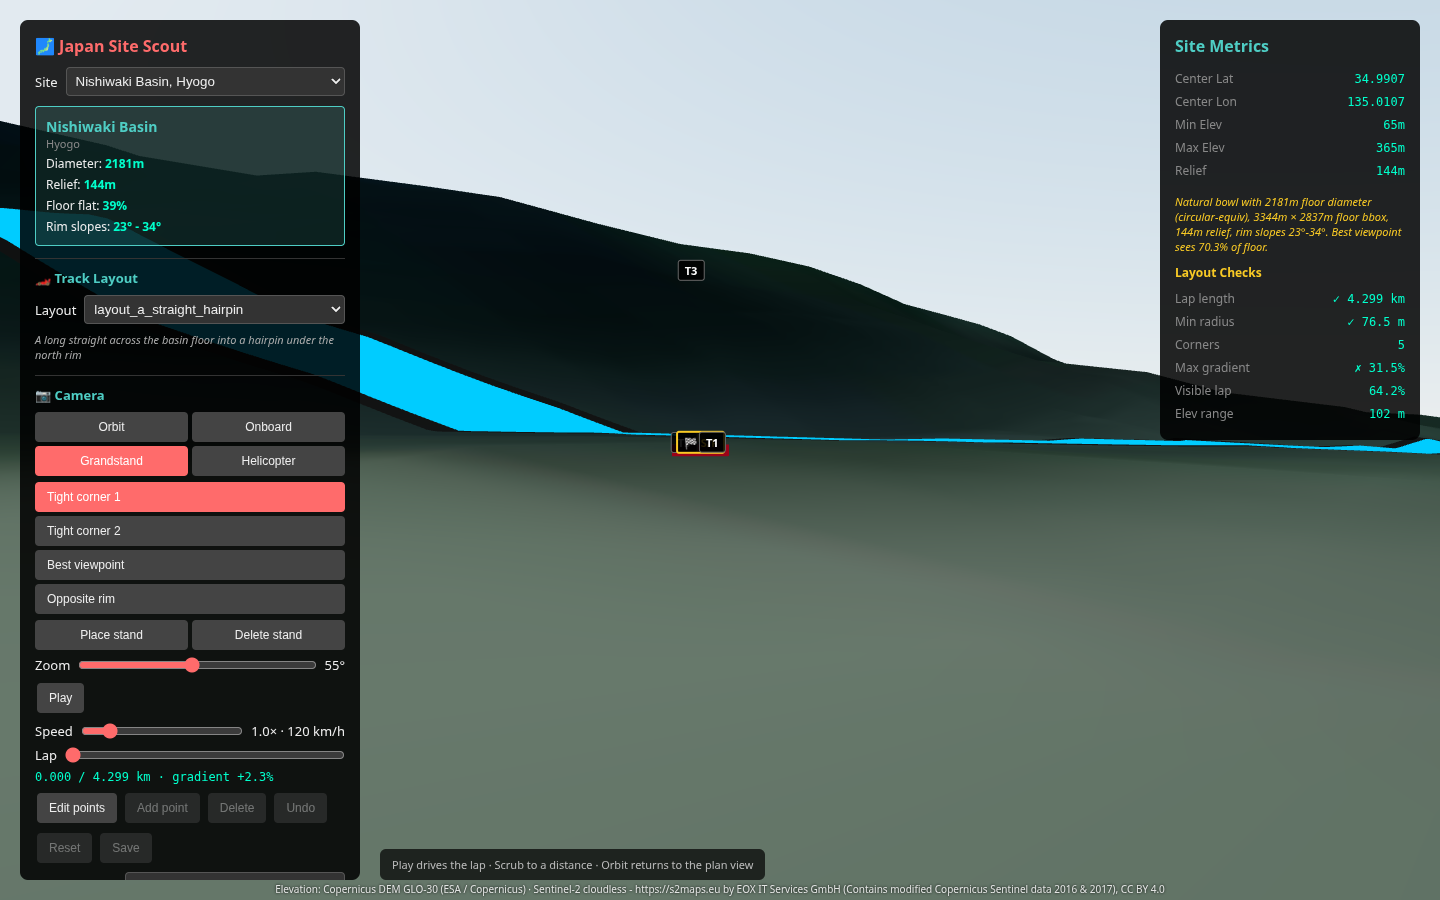
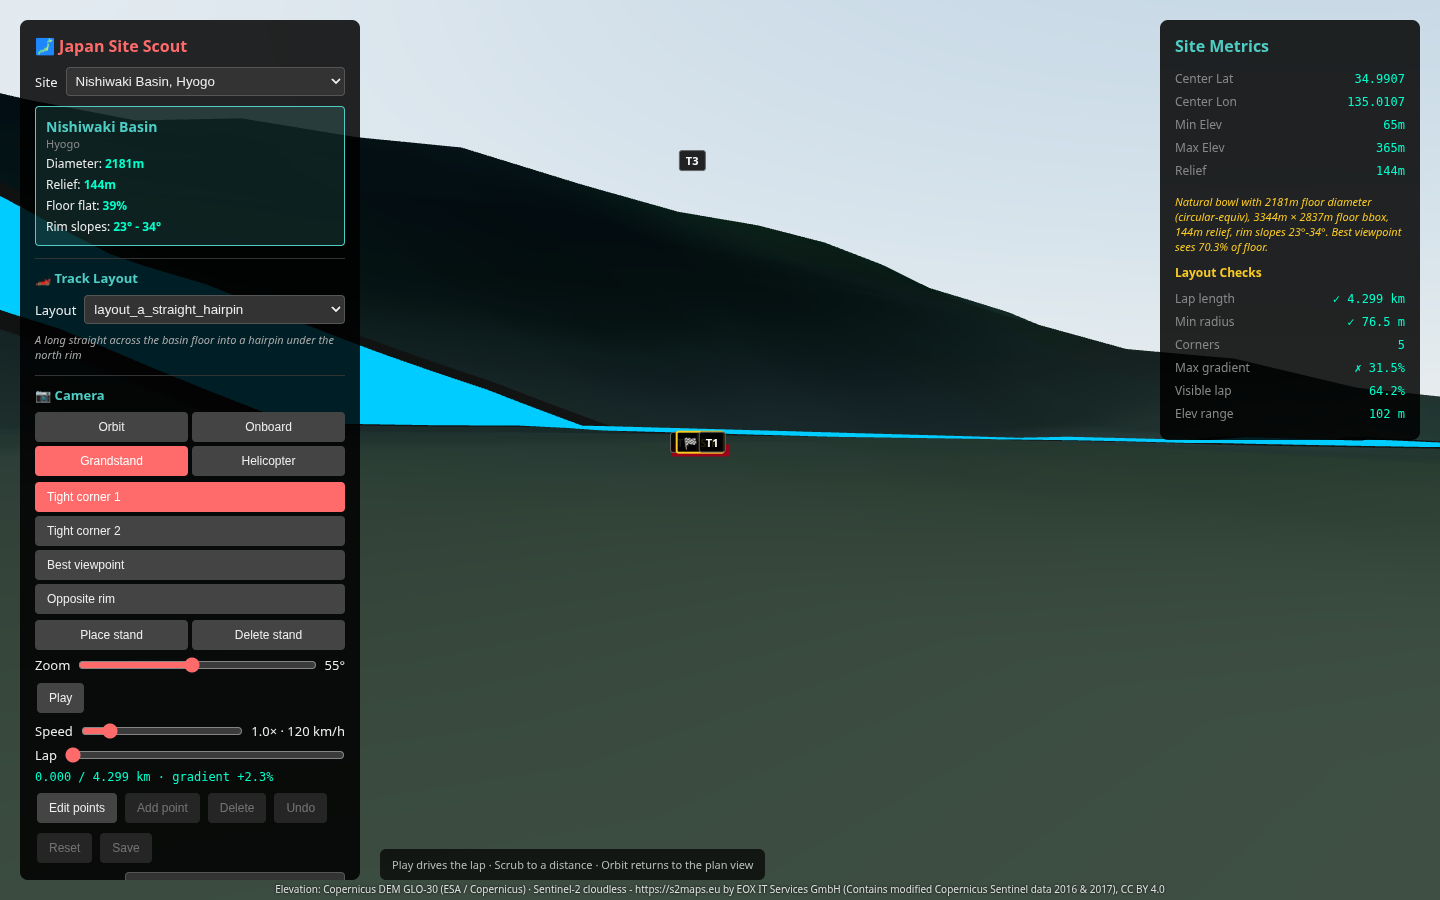
Address PR 11 review: stands [], finites, polyline clearance, car scale
Persist empty stands array, validate finite coordinates in serve.py, place
defaults using full-track outside-edge clearance (40–120 m), and cap grandstand
car marker angular size.

diff --git a/viewer/site.html b/viewer/site.html
@@ -694,8 +694,11 @@
                 selectedIndex = -1;
                 liveViewshedPct = null;
                 applyWorkingLayout();
-                const fromFile = standsFromLayout(layout);
-                customStands = fromFile || suggestDefaultStands();
+                if (Object.prototype.hasOwnProperty.call(layout, 'stands')) {
+                    customStands = standsFromLayout(layout);
+                } else {
+                    customStands = suggestDefaultStands();
+                }
                 rebuildDriveStands();
 
                 document.getElementById('layout-direction').textContent = layout.direction || '';
@@ -1589,14 +1592,12 @@
                 notes: note || currentLayout?.notes || '',
                 edited_from: currentLayoutKey,
             };
-            if (customStands.length) {
-                payload.stands = customStands.map((s, i) => {
-                    const item = { x: round2(s.x), y: round2(s.y) };
-                    if (s.name) item.name = s.name;
-                    if (Number.isFinite(s.eyeElev)) item.eye_elev_m = round2(s.eyeElev);
-                    return item;
-                });
-            }
+            payload.stands = customStands.map((s) => {
+                const item = { x: round2(s.x), y: round2(s.y) };
+                if (s.name) item.name = s.name;
+                if (Number.isFinite(s.eyeElev)) item.eye_elev_m = round2(s.eyeElev);
+                return item;
+            });
             let via = 'download';
             try {
                 const res = await fetch('/api/layouts/edits', {
@@ -1940,7 +1941,10 @@
                 carMarker.renderOrder = 12;
             } else if (cameraMode === 'grandstand' && camera) {
                 const dist = Math.max(40, camera.position.distanceTo(worldPos));
-                carMarker.scale.setScalar(THREE.MathUtils.clamp(dist / 45, 4, 22));
+                const fovRad = THREE.MathUtils.degToRad(camera.fov);
+                const maxScale = (dist * Math.tan(fovRad / 8)) / 4.4;
+                const raw = THREE.MathUtils.clamp(dist / 45, 2, 22);
+                carMarker.scale.setScalar(Math.max(1, Math.min(raw, maxScale)));
                 carMarker.material.depthTest = false;
                 carMarker.material.emissive.setHex(0x881018);
                 carMarker.renderOrder = 14;
@@ -2043,12 +2047,13 @@
         }
 
         function standsFromLayout(layout) {
-            const raw = layout?.stands;
-            if (!Array.isArray(raw) || !raw.length) return null;
+            const raw = layout.stands;
+            if (!Array.isArray(raw)) return [];
             const out = [];
             for (let i = 0; i < raw.length && i < 4; i++) {
                 const s = raw[i];
                 if (typeof s?.x !== 'number' || typeof s?.y !== 'number') continue;
+                if (!Number.isFinite(s.x) || !Number.isFinite(s.y)) continue;
                 const elev = meshElevation(s.x, s.y);
                 const name = typeof s.name === 'string' && s.name.trim()
                     ? s.name.trim().slice(0, 64) : `Stand ${out.length + 1}`;
@@ -2060,12 +2065,41 @@
                     eyeElev: Number.isFinite(s.eye_elev_m) ? s.eye_elev_m : elev + STAND_EYE_M,
                 });
             }
-            return out.length ? out : null;
+            return out;
+        }
+
+        function pointToSegmentDist(x, y, x0, y0, x1, y1) {
+            const dx = x1 - x0;
+            const dy = y1 - y0;
+            const lenSq = dx * dx + dy * dy;
+            if (lenSq < 1e-12) return Math.hypot(x - x0, y - y0);
+            let t = ((x - x0) * dx + (y - y0) * dy) / lenSq;
+            t = Math.max(0, Math.min(1, t));
+            return Math.hypot(x - (x0 + t * dx), y - (y0 + t * dy));
+        }
+
+        function nearestTrackCenterlineM(x, y) {
+            const pts = layoutPoints;
+            if (!pts || pts.length < 2) return null;
+            let best = Infinity;
+            for (let i = 0; i < pts.length; i++) {
+                const j = (i + 1) % pts.length;
+                const d = pointToSegmentDist(x, y, pts[i].x, pts[i].y, pts[j].x, pts[j].y);
+                if (d < best) best = d;
+            }
+            return best;
+        }
+
+        function trackEdgeClearanceM(x, y) {
+            const center = nearestTrackCenterlineM(x, y);
+            if (center == null) return null;
+            const halfW = (currentLayout?.track_width_m || TRACK_WIDTH) / 2;
+            return center - halfW;
         }
 
         function suggestDefaultStands() {
             const corners = liveMetrics?.corners;
-            if (!corners?.length || !workingPoints?.length) return [];
+            if (!corners?.length || !workingPoints?.length || !layoutPoints?.length) return [];
             const width = currentLayout?.track_width_m || TRACK_WIDTH;
             const halfW = width / 2;
             const centroid = workingPoints.reduce((a, p) => ({ x: a.x + p.x, y: a.y + p.y }), { x: 0, y: 0 });
@@ -2074,15 +2108,12 @@
             const sorted = [...corners].sort((a, b) => a.radius_m - b.radius_m);
             const picks = [];
             const used = [];
-            for (const c of sorted) {
-                if (picks.length >= 2) break;
-                if (used.some(u => Math.abs(u - c.position_m) < 80)) continue;
-                used.push(c.position_m);
+            const tryCorner = (c, label) => {
                 const pt = sampleCentreline(c.position_m);
-                if (!pt) continue;
+                if (!pt) return null;
                 const p0 = sampleCentreline(c.position_m - 6);
                 const p1 = sampleCentreline(c.position_m + 6);
-                if (!p0 || !p1) continue;
+                if (!p0 || !p1) return null;
                 let tx = p1.x - p0.x;
                 let ty = p1.y - p0.y;
                 const tlen = Math.hypot(tx, ty) || 1;
@@ -2096,18 +2127,63 @@
                     nx = -nx;
                     ny = -ny;
                 }
-                const offsetM = halfW + 70;
-                const sx = pt.x + nx * offsetM;
-                const sy = pt.y + ny * offsetM;
-                const elev = meshElevation(sx, sy);
-                if (!Number.isFinite(elev)) continue;
-                picks.push({
-                    id: `suggest-${picks.length}`,
-                    name: picks.length === 0 ? 'Tight corner 1' : 'Tight corner 2',
-                    x: sx,
-                    y: sy,
-                    eyeElev: elev + STAND_EYE_M,
-                });
+                for (let edgeDist = 40; edgeDist <= 120; edgeDist += 2) {
+                    const offsetM = halfW + edgeDist;
+                    const sx = pt.x + nx * offsetM;
+                    const sy = pt.y + ny * offsetM;
+                    const clear = trackEdgeClearanceM(sx, sy);
+                    if (clear == null || clear < 40 - 0.5) continue;
+                    if (clear > 120 + 0.5) break;
+                    const elev = meshElevation(sx, sy);
+                    if (!Number.isFinite(elev)) continue;
+                    return {
+                        id: `suggest-${picks.length}`,
+                        name: label,
+                        x: sx,
+                        y: sy,
+                        eyeElev: elev + STAND_EYE_M,
+                    };
+                }
+                for (let edgeDist = 122; edgeDist <= 200; edgeDist += 2) {
+                    const offsetM = halfW + edgeDist;
+                    const sx = pt.x + nx * offsetM;
+                    const sy = pt.y + ny * offsetM;
+                    const clear = trackEdgeClearanceM(sx, sy);
+                    if (clear == null) continue;
+                    if (clear >= 40 && clear <= 120) {
+                        const elev = meshElevation(sx, sy);
+                        if (!Number.isFinite(elev)) continue;
+                        return {
+                            id: `suggest-${picks.length}`,
+                            name: label,
+                            x: sx,
+                            y: sy,
+                            eyeElev: elev + STAND_EYE_M,
+                        };
+                    }
+                    if (clear > 120) break;
+                }
+                return null;
+            };
+            for (const c of sorted) {
+                if (picks.length >= 2) break;
+                if (used.some(u => Math.abs(u - c.position_m) < 80)) continue;
+                const label = picks.length === 0 ? 'Tight corner 1' : 'Tight corner 2';
+                const stand = tryCorner(c, label);
+                if (!stand) continue;
+                used.push(c.position_m);
+                picks.push(stand);
+            }
+            if (picks.length < 2) {
+                for (const c of sorted) {
+                    if (picks.length >= 2) break;
+                    if (used.some(u => Math.abs(u - c.position_m) < 40)) continue;
+                    const label = picks.length === 0 ? 'Tight corner 1' : 'Tight corner 2';
+                    const stand = tryCorner(c, label);
+                    if (!stand) continue;
+                    used.push(c.position_m);
+                    picks.push(stand);
+                }
             }
             return picks;
         }
@@ -2201,13 +2277,7 @@
         }
 
         function nearestTrackDistanceM(x, y) {
-            if (!layoutPoints?.length) return null;
-            let best = Infinity;
-            for (const p of layoutPoints) {
-                const d = Math.hypot(p.x - x, p.y - y);
-                if (d < best) best = d;
-            }
-            return best;
+            return trackEdgeClearanceM(x, y);
         }
 
         function updateCameraModeUi() {
@@ -2667,6 +2737,13 @@
                 },
                 placeStandAt,
                 nearestTrackDistanceM,
+                trackEdgeClearanceM,
+                deleteAllCustomStands() {
+                    customStands = [];
+                    grandstandIndex = 0;
+                    rebuildDriveStands();
+                    if (cameraMode === 'grandstand') applyDriveCamera(null);
+                },
             };
 
             animate();

diff --git a/scripts/serve.py b/scripts/serve.py
@@ -24,6 +24,7 @@ POST /api/session-events
 
 import http.server
 import json
+import math
 import os
 import re
 import socketserver
@@ -180,20 +181,29 @@ class Handler(http.server.SimpleHTTPRequestHandler):
                     self._json(400, {"error": "stand"})
                     return
                 try:
-                    item = {"x": float(stand["x"]), "y": float(stand["y"])}
+                    sx = float(stand["x"])
+                    sy = float(stand["y"])
                 except (TypeError, ValueError):
                     self._json(400, {"error": "stand"})
                     return
+                if not (math.isfinite(sx) and math.isfinite(sy)):
+                    self._json(400, {"error": "stand"})
+                    return
+                item = {"x": sx, "y": sy}
                 stand_name = stand.get("name")
                 if isinstance(stand_name, str) and stand_name.strip():
                     item["name"] = stand_name.strip()[:64]
                 eye = stand.get("eye_elev_m")
                 if eye is not None:
                     try:
-                        item["eye_elev_m"] = float(eye)
+                        eye_f = float(eye)
                     except (TypeError, ValueError):
                         self._json(400, {"error": "stand"})
                         return
+                    if not math.isfinite(eye_f):
+                        self._json(400, {"error": "stand"})
+                        return
+                    item["eye_elev_m"] = eye_f
                 clean_stands.append(item)
             payload["stands"] = clean_stands
         os.makedirs(EDITS_DIR, exist_ok=True)
@@ -204,7 +214,7 @@ class Handler(http.server.SimpleHTTPRequestHandler):
         overwritten = os.path.exists(dest)
         tmp = dest + ".tmp"
         with open(tmp, "w") as f:
-            json.dump(payload, f, indent=2)
+            json.dump(payload, f, indent=2, allow_nan=False)
             f.write("\n")
         os.replace(tmp, dest)
         write_edits_index(EDITS_DIR)
